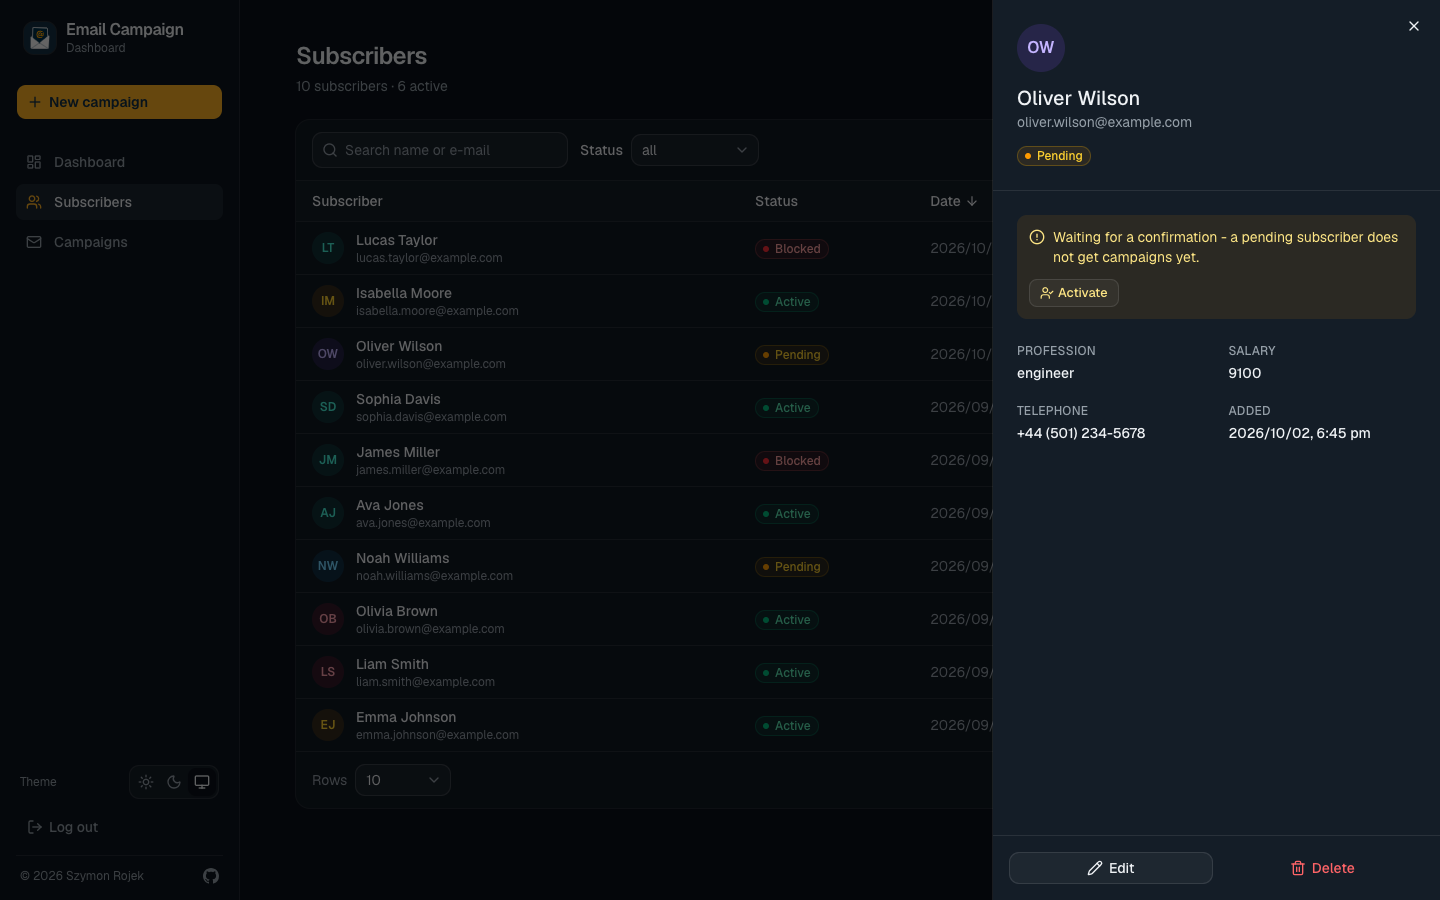
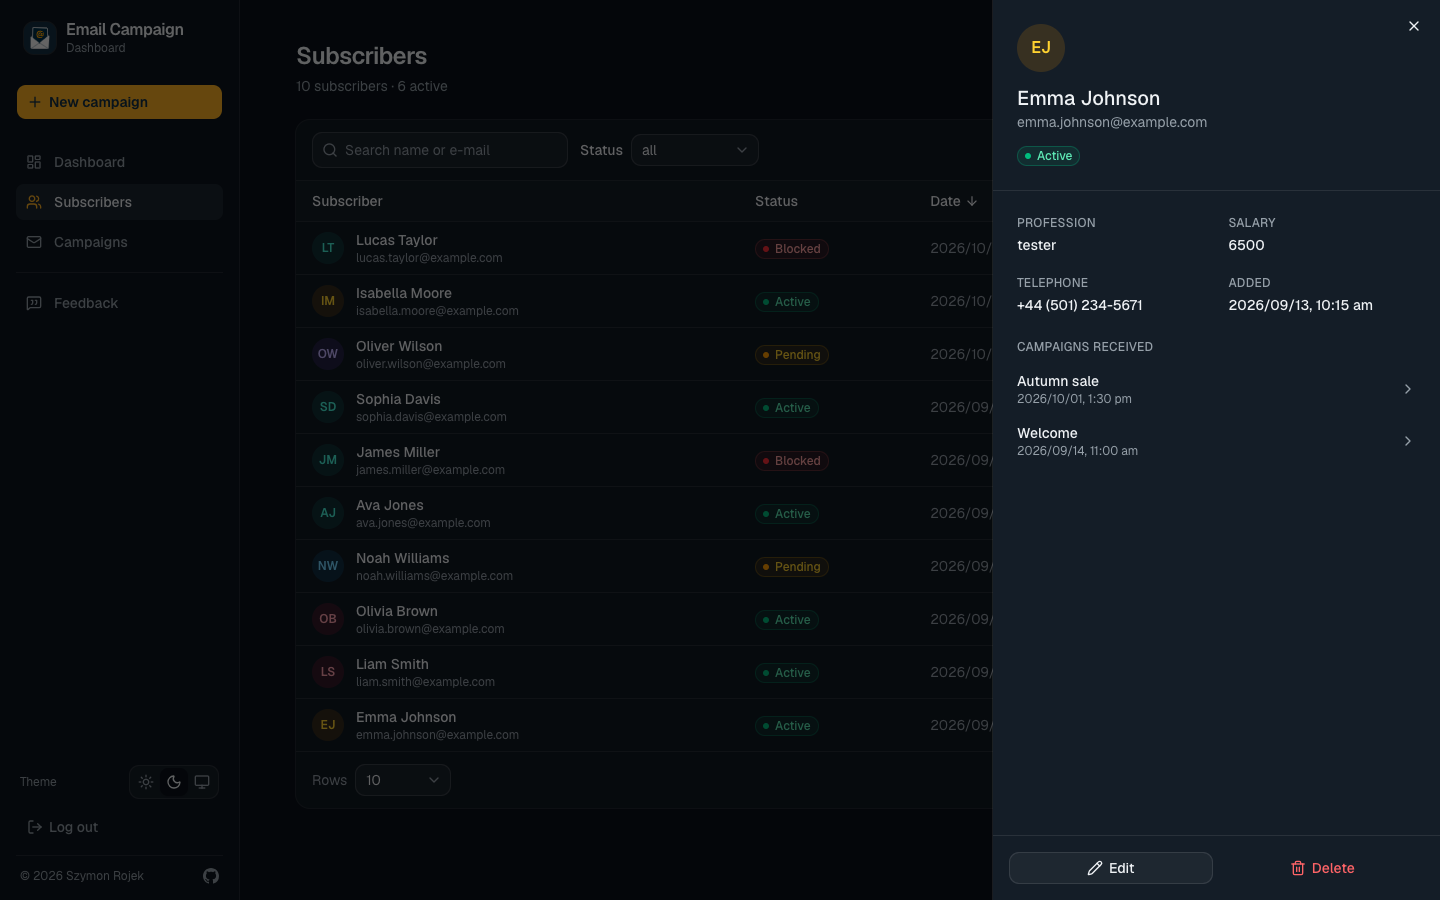
No README / Airtable links in the app; README and screenshots up to date
- the dashboard's "About this demo" card without the README and Airtable buttons
- new screenshots (Feedback in the menu, campaigns received in the panel)
- README: an invitation to leave feedback, short feedback features (the details
  moved to "How it works"), the Git workflow as it really is
- .env.example: the optional MAIL_TRANSPORT

diff --git a/client/src/pages/dashboard/DashboardPage.tsx b/client/src/pages/dashboard/DashboardPage.tsx
@@ -1,7 +1,5 @@
 import { ReactNode } from "react";
 import { Link } from "react-router";
-import { BsGithub } from "react-icons/bs";
-import { SiAirtable } from "react-icons/si";
 import {
   ArrowRight,
   Plus,
@@ -219,7 +217,7 @@ const DashboardPage = () => {
         <CardHeader>
           <CardTitle className="text-base">About this demo</CardTitle>
         </CardHeader>
-        <CardContent className="grid gap-4 text-sm text-muted-foreground md:grid-cols-[1fr_auto] md:items-end">
+        <CardContent className="text-sm text-muted-foreground">
           <ul className="grid list-disc gap-1.5 pl-5">
             <li>
               React 19 + TypeScript app with an Express API in front of Airtable
@@ -234,24 +232,6 @@ const DashboardPage = () => {
               comes back every night.
             </li>
           </ul>
-          <div className="flex flex-wrap gap-2">
-            <Button asChild variant="outline" size="sm">
-              <a
-                href="https://github.com/SzymonRojek/email-campaign-dashboard"
-                target="_blank"
-                rel="noreferrer"
-              >
-                <BsGithub />
-                README
-              </a>
-            </Button>
-            <Button asChild variant="outline" size="sm">
-              <a href="https://airtable.com/" target="_blank" rel="noreferrer">
-                <SiAirtable />
-                Airtable
-              </a>
-            </Button>
-          </div>
         </CardContent>
       </Card>
     </StyledContainer>

diff --git a/README.md b/README.md
@@ -23,6 +23,8 @@ A full-stack web app for running e-mail campaigns: manage subscribers, write per
 > Free hosting - after a break the first load can take up to a minute.
 >
 > **Demo mode:** nobody really gets the e-mails. Sending builds a real, personalized e-mail for every recipient and saves it in the campaign's outbox, where each one can be opened. Feel free to change anything - the example data comes back every night. Please use made-up data: the demo is public.
+>
+> **Reviewing the project?** I would love your feedback - use "Leave feedback" on the login page or in the app.
 
 ## Highlights
 
@@ -51,9 +53,8 @@ A full-stack web app for running e-mail campaigns: manage subscribers, write per
 - duplicate any campaign as a new draft
 
 **Feedback from reviewers**
-- anybody can leave feedback - also on the login page, without logging in
-- shown only after the owner approves it in Airtable; the login page shows the newest three, the Feedback page all of them
-- protected against bots and floods (a hidden field, 3 entries an hour per address); kept in memory on the server for 30 seconds, so many visits at once do not use up the Airtable API limit
+- anybody can leave feedback, also on the login page without logging in
+- shown only after I approve it; the login page shows the newest three, the Feedback page all of them
 
 **Everywhere**
 - dashboard with the key numbers, recent campaigns and newest subscribers
@@ -83,6 +84,8 @@ The React app never talks to Airtable directly. The Express server keeps the Air
 **Login:** `POST /api/auth/login` checks the password and returns a signed token valid for 8 hours. Every data endpoint requires it in the `Authorization: Bearer <token>` header; after 5 wrong passwords the IP is blocked for 15 minutes.
 
 **Sending:** the server, not the browser, decides who gets a campaign (active subscribers only). It builds one e-mail per recipient from a template - fills in the name, escapes the text so it can not become HTML, adds a signed unsubscribe link - and saves it in the `emails` table (the outbox). The preview before sending uses the same template.
+
+**Feedback:** public endpoints with a hidden field against bots and a limit of 3 entries an hour per address. A new entry is always saved as not approved; the approved ones are kept in memory on the server for 30 seconds, so many visits at once do not use up the Airtable API limit.
 
 **Why an outbox:** the demo is public and the free hosting blocks outgoing SMTP. Where the e-mails go is one setting (`MAIL_TRANSPORT`): `outbox` on the demo, `ethereal` locally (a test SMTP server that catches every e-mail). A real e-mail service would be one more case.
 
@@ -123,7 +126,7 @@ To save Airtable API calls, the reset is **skipped when nobody changed anything*
 
 Every pull request runs in GitHub Actions: type checking, lint, unit tests, production build and end-to-end tests.
 
-- **Server** (Jest + supertest) - login and tokens, every endpoint, sending and the outbox, templates and escaping, unsubscribe links, the CSV import, the demo reset; Airtable is mocked
+- **Server** (Jest + supertest) - login and tokens, every endpoint, sending and the outbox, templates and escaping, unsubscribe links, the CSV import, feedback (moderation, limits), the demo reset; Airtable is mocked
 - **Client** (Vitest + React Testing Library) - CSV reading and writing, search, sorting and filtering, form validation, the API client, choosing recipients, theme
 - **End-to-end** (Playwright) - real user flows on the production build: login, the subscriber panel, search, CSV import and export, drafting, previewing, sending and duplicating campaigns, opening sent e-mails, unsubscribing, leaving feedback, unsaved changes, dark mode, loading errors, phones. They run against a fake Airtable (`e2e/mock-airtable.ts`), so they never touch real data.
 
@@ -171,8 +174,8 @@ Only the server reads these - none of them reaches the browser.
 | `dev`  | staging |
 
 1. Every change starts on a short-lived branch off `dev` (`feature/...`, `fix/...`, `chore/...`).
-2. Pull request into `dev` - CI must pass, then a review and a **squash merge**; Render deploys staging.
-3. After checking staging - pull request `dev -> main` merged with a **merge commit**; Render deploys production.
+2. Pull request into `dev` - CI must pass and there must be no conflicts, then a review and a merge; Render deploys staging.
+3. After checking staging - a release pull request `dev -> main`, merged with a **merge commit** (so both branches keep the same history); Render deploys production.
 
 **Hotfix:** a `hotfix/...` branch off `main`, pull request into `main`, then right away `main -> dev`, so both environments run the same code.
 
